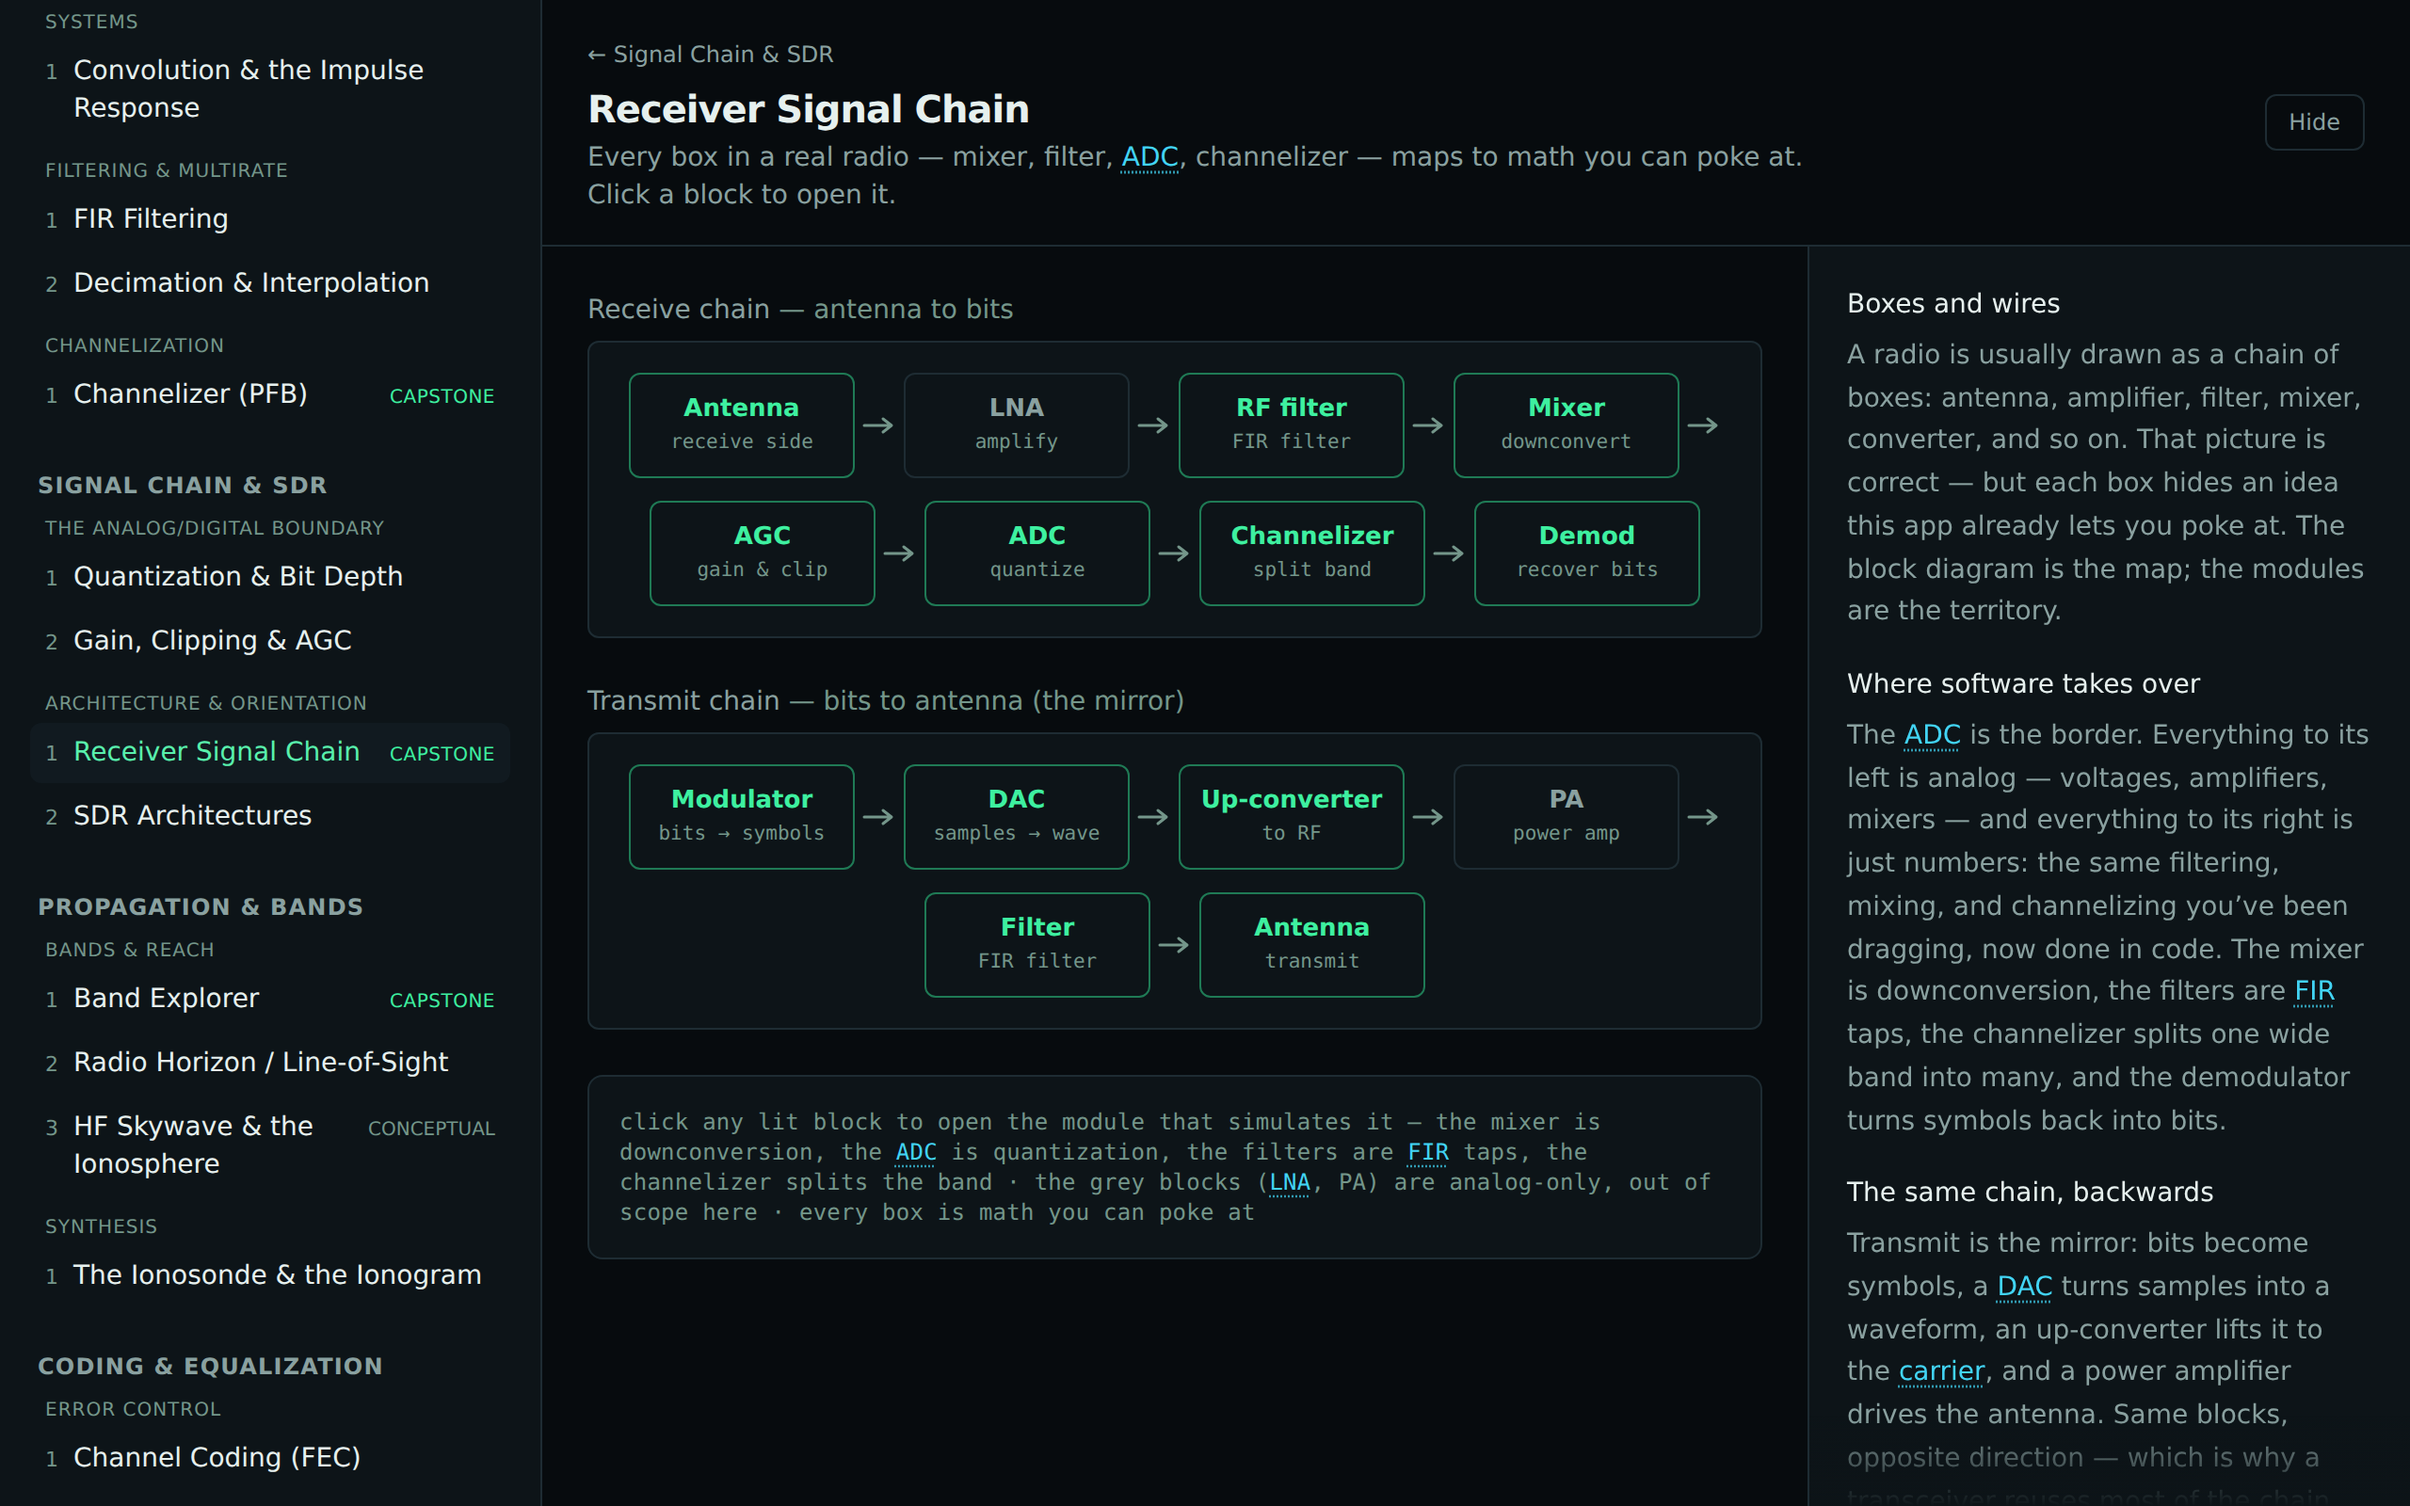
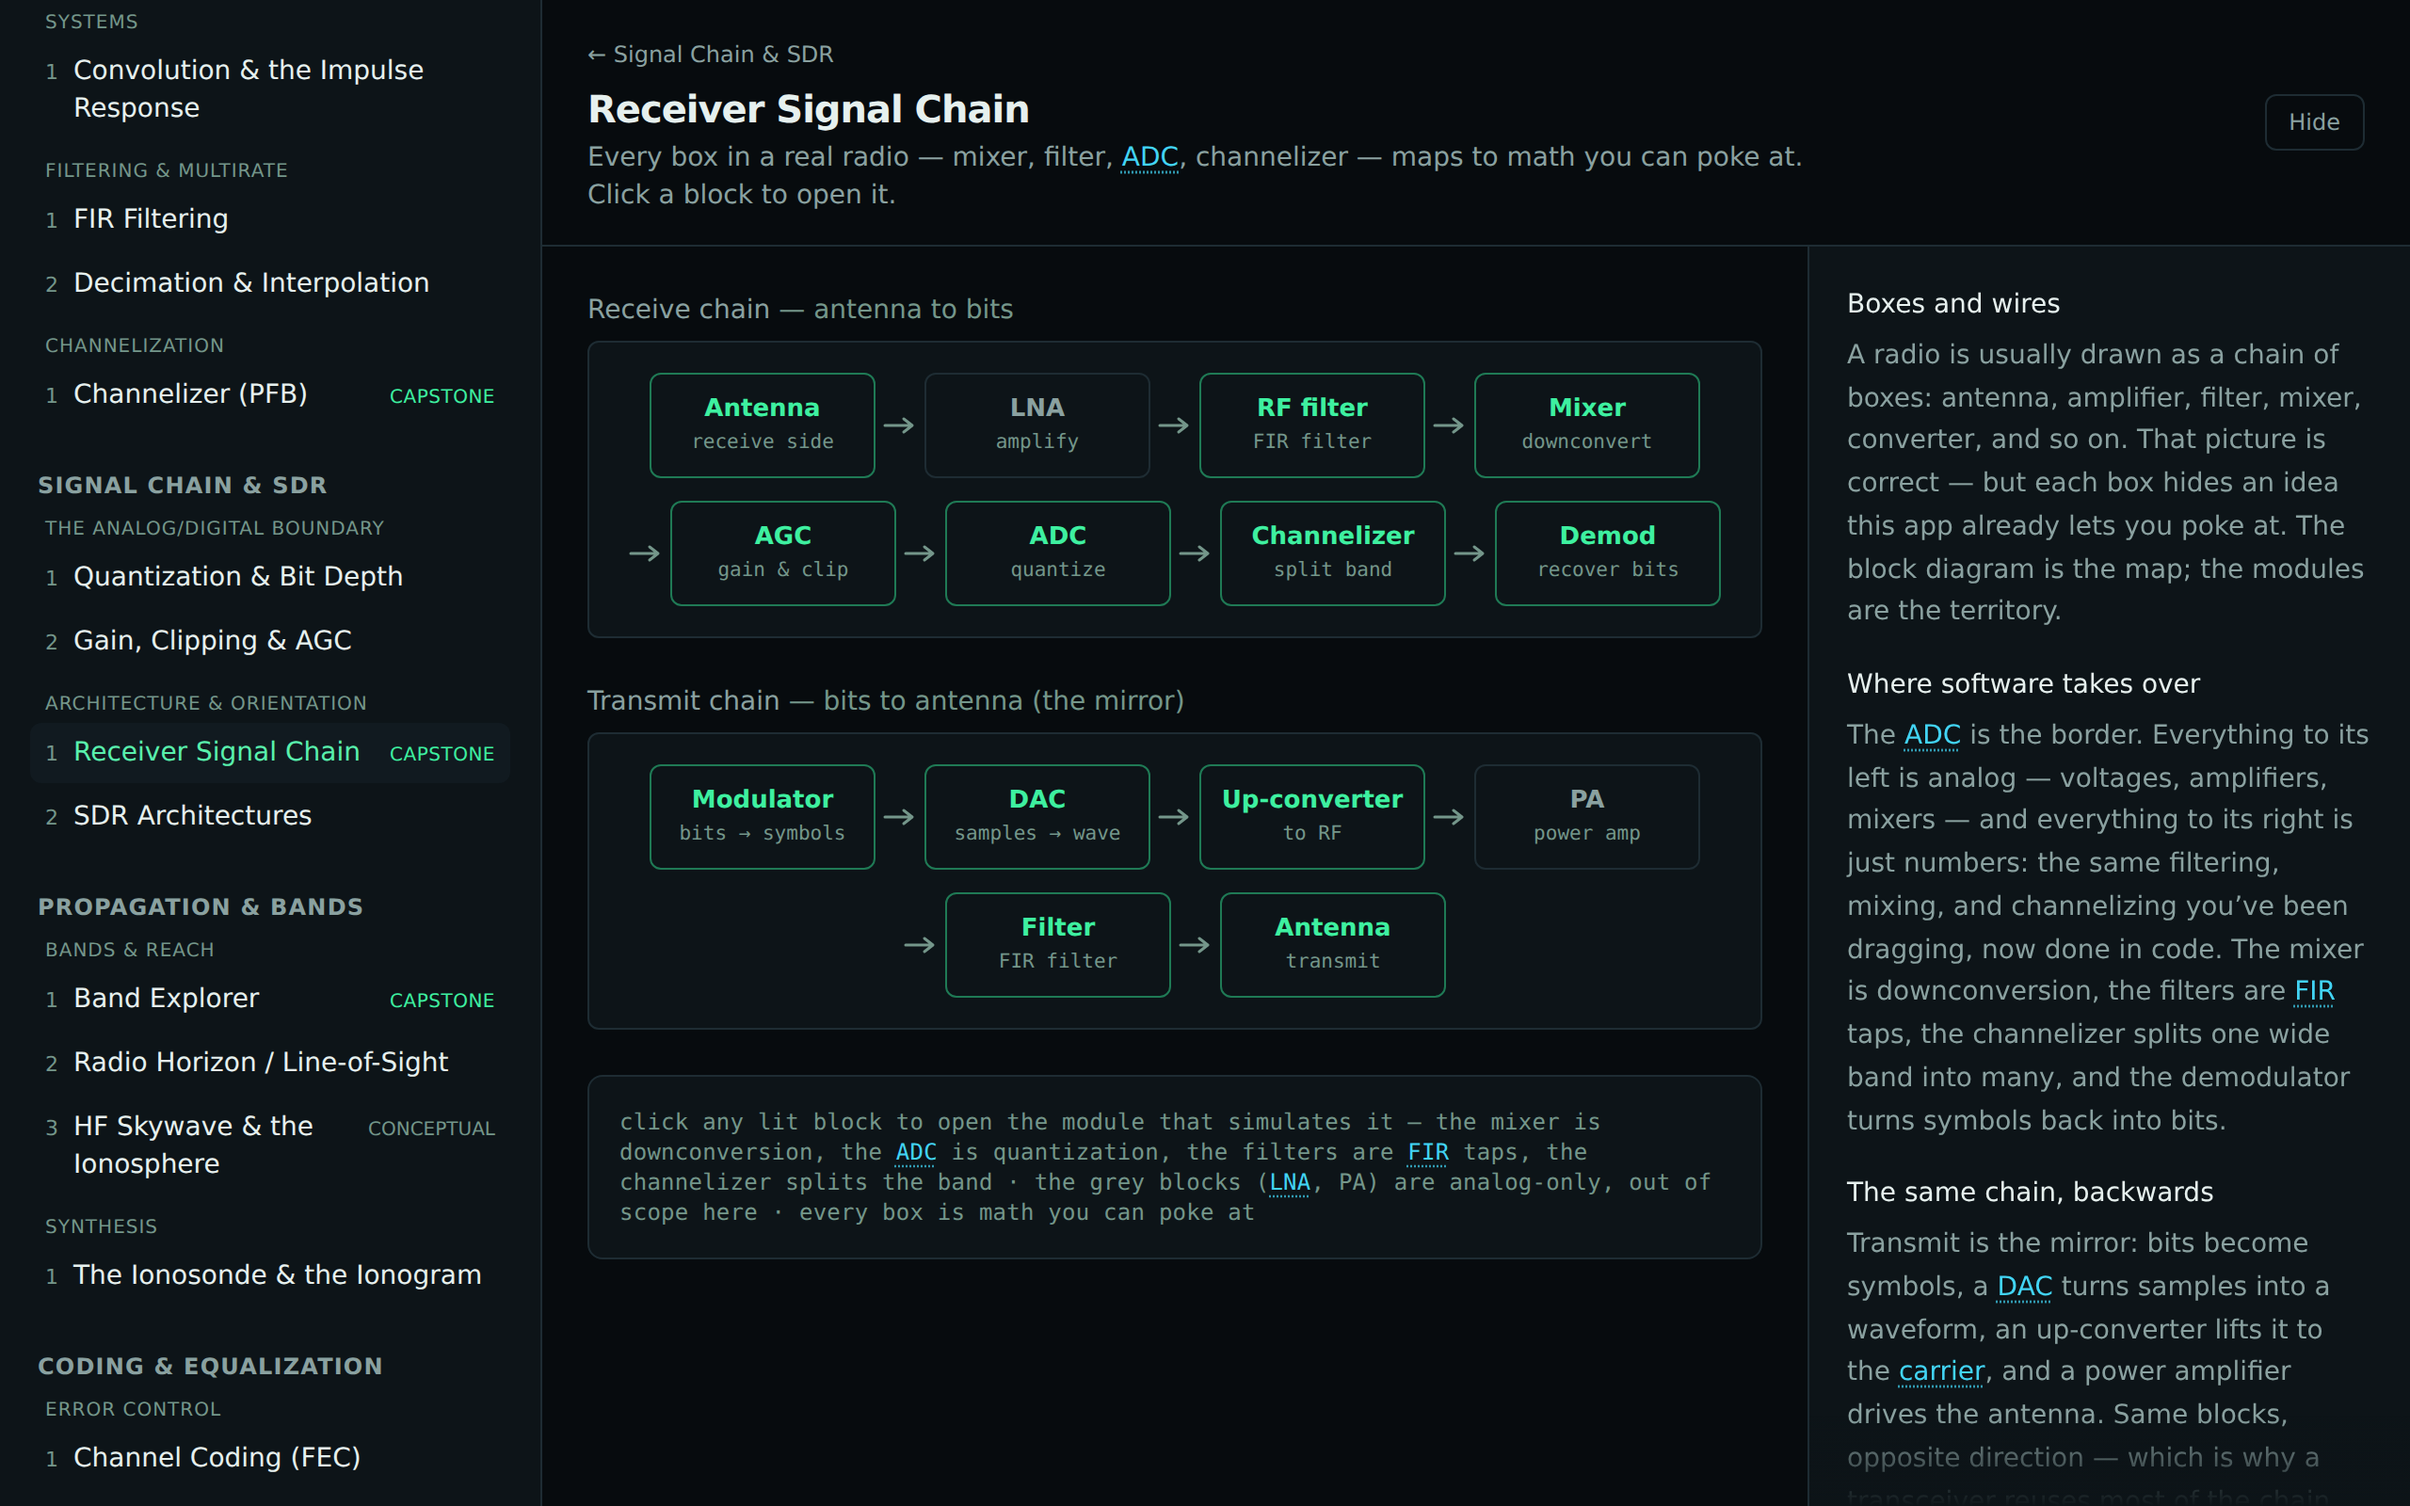
Weld each flow arrow to the block it points into
In the wrapped layout, each arrow was its own flex child, so a row could
break right after an arrow: the connector dangled at the end of one row while
the next row's first block started with nothing pointing into it — making the
chain read as disconnected at exactly the seam the wrap creates (flagged in
review on the two-row signal chain, arrows stranded after Mixer/PA).

Group every arrow with the block it points into as one non-wrapping unit. A
wrap now breaks *between* blocks, so no arrow is ever stranded at a row's end;
instead each continued row begins with its incoming connector (→ AGC, → ADC…),
which is what reads as "the flow continues here." The single-row-on-wide and
the 4+4 wrap packing are unchanged — the seam arrow simply moves down to lead
the next row instead of trailing the previous one. Screenshots regenerated.

Claude-Session: https://claude.ai/code/session_01P37fCFxA8pmtvGiGn2UdfE

diff --git a/src/components/BlockDiagram.tsx b/src/components/BlockDiagram.tsx
@@ -30,9 +30,10 @@ export interface BlockDiagramProps {
  * Layout: a flow of comfortable, fixed-width blocks that **wraps responsively** — one clean row when
  * the chain fits the container, breaking onto further rows when it doesn't. Each block keeps a
  * minimum readable width rather than shrinking to fit, so a long chain (the 8-box receive chain)
- * stays legible at any width. The right-pointing arrows between blocks carry the left-to-right
- * reading across a wrap (the standard block-diagram idiom — flow continues on the next row), so the
- * row can break without ever needing a horizontal scroll.
+ * stays legible at any width. Each right-pointing arrow stays welded to the block it points into, so
+ * a wrapped row begins with its incoming connector and the chain reads as one continuous flow across
+ * the break (the standard block-diagram idiom — flow continues on the next row) — never a stranded
+ * arrow or a horizontal scroll.
  */
 export function BlockDiagram({ blocks, ariaLabel }: BlockDiagramProps) {
   const setActiveModule = useAppStore((s) => s.setActiveModule);
@@ -64,30 +65,38 @@ export function BlockDiagram({ blocks, ariaLabel }: BlockDiagramProps) {
           </>
         );
 
-        return (
-          <Fragment key={n.id}>
-            {linked ? (
-              <button
-                type="button"
-                aria-label={`${n.label} — open the ${n.label} module`}
-                onClick={go}
-                className={`${base} ${lit}`}
-              >
-                {content}
-              </button>
-            ) : (
-              <div className={`${base} ${quiet}`}>{content}</div>
-            )}
-            {i < blocks.length - 1 && <FlowArrow />}
-          </Fragment>
+        const box = linked ? (
+          <button
+            type="button"
+            aria-label={`${n.label} — open the ${n.label} module`}
+            onClick={go}
+            className={`${base} ${lit}`}
+          >
+            {content}
+          </button>
+        ) : (
+          <div className={`${base} ${quiet}`}>{content}</div>
+        );
+
+        // The first block leads the chain; every other block travels glued to the arrow that points
+        // into it as one non-wrapping unit. So a wrap breaks *between* blocks but never strands an
+        // arrow at a row's end — each continued row instead begins with its incoming connector,
+        // which is what reads as "the flow continues here" rather than a fresh, disconnected chain.
+        return i === 0 ? (
+          <Fragment key={n.id}>{box}</Fragment>
+        ) : (
+          <div key={n.id} className="flex min-w-0 items-center gap-x-1">
+            <FlowArrow />
+            {box}
+          </div>
         );
       })}
     </div>
   );
 }
 
-/** A right-pointing flow arrow between two blocks — the connective tissue that keeps the chain
- *  reading left-to-right across a wrap. Decorative: the order is conveyed by the block sequence. */
+/** A right-pointing flow arrow welded to the block that follows it — the connective tissue that
+ *  keeps the chain reading left-to-right across a wrap. Decorative: order is in the block sequence. */
 function FlowArrow() {
   return (
     <svg
